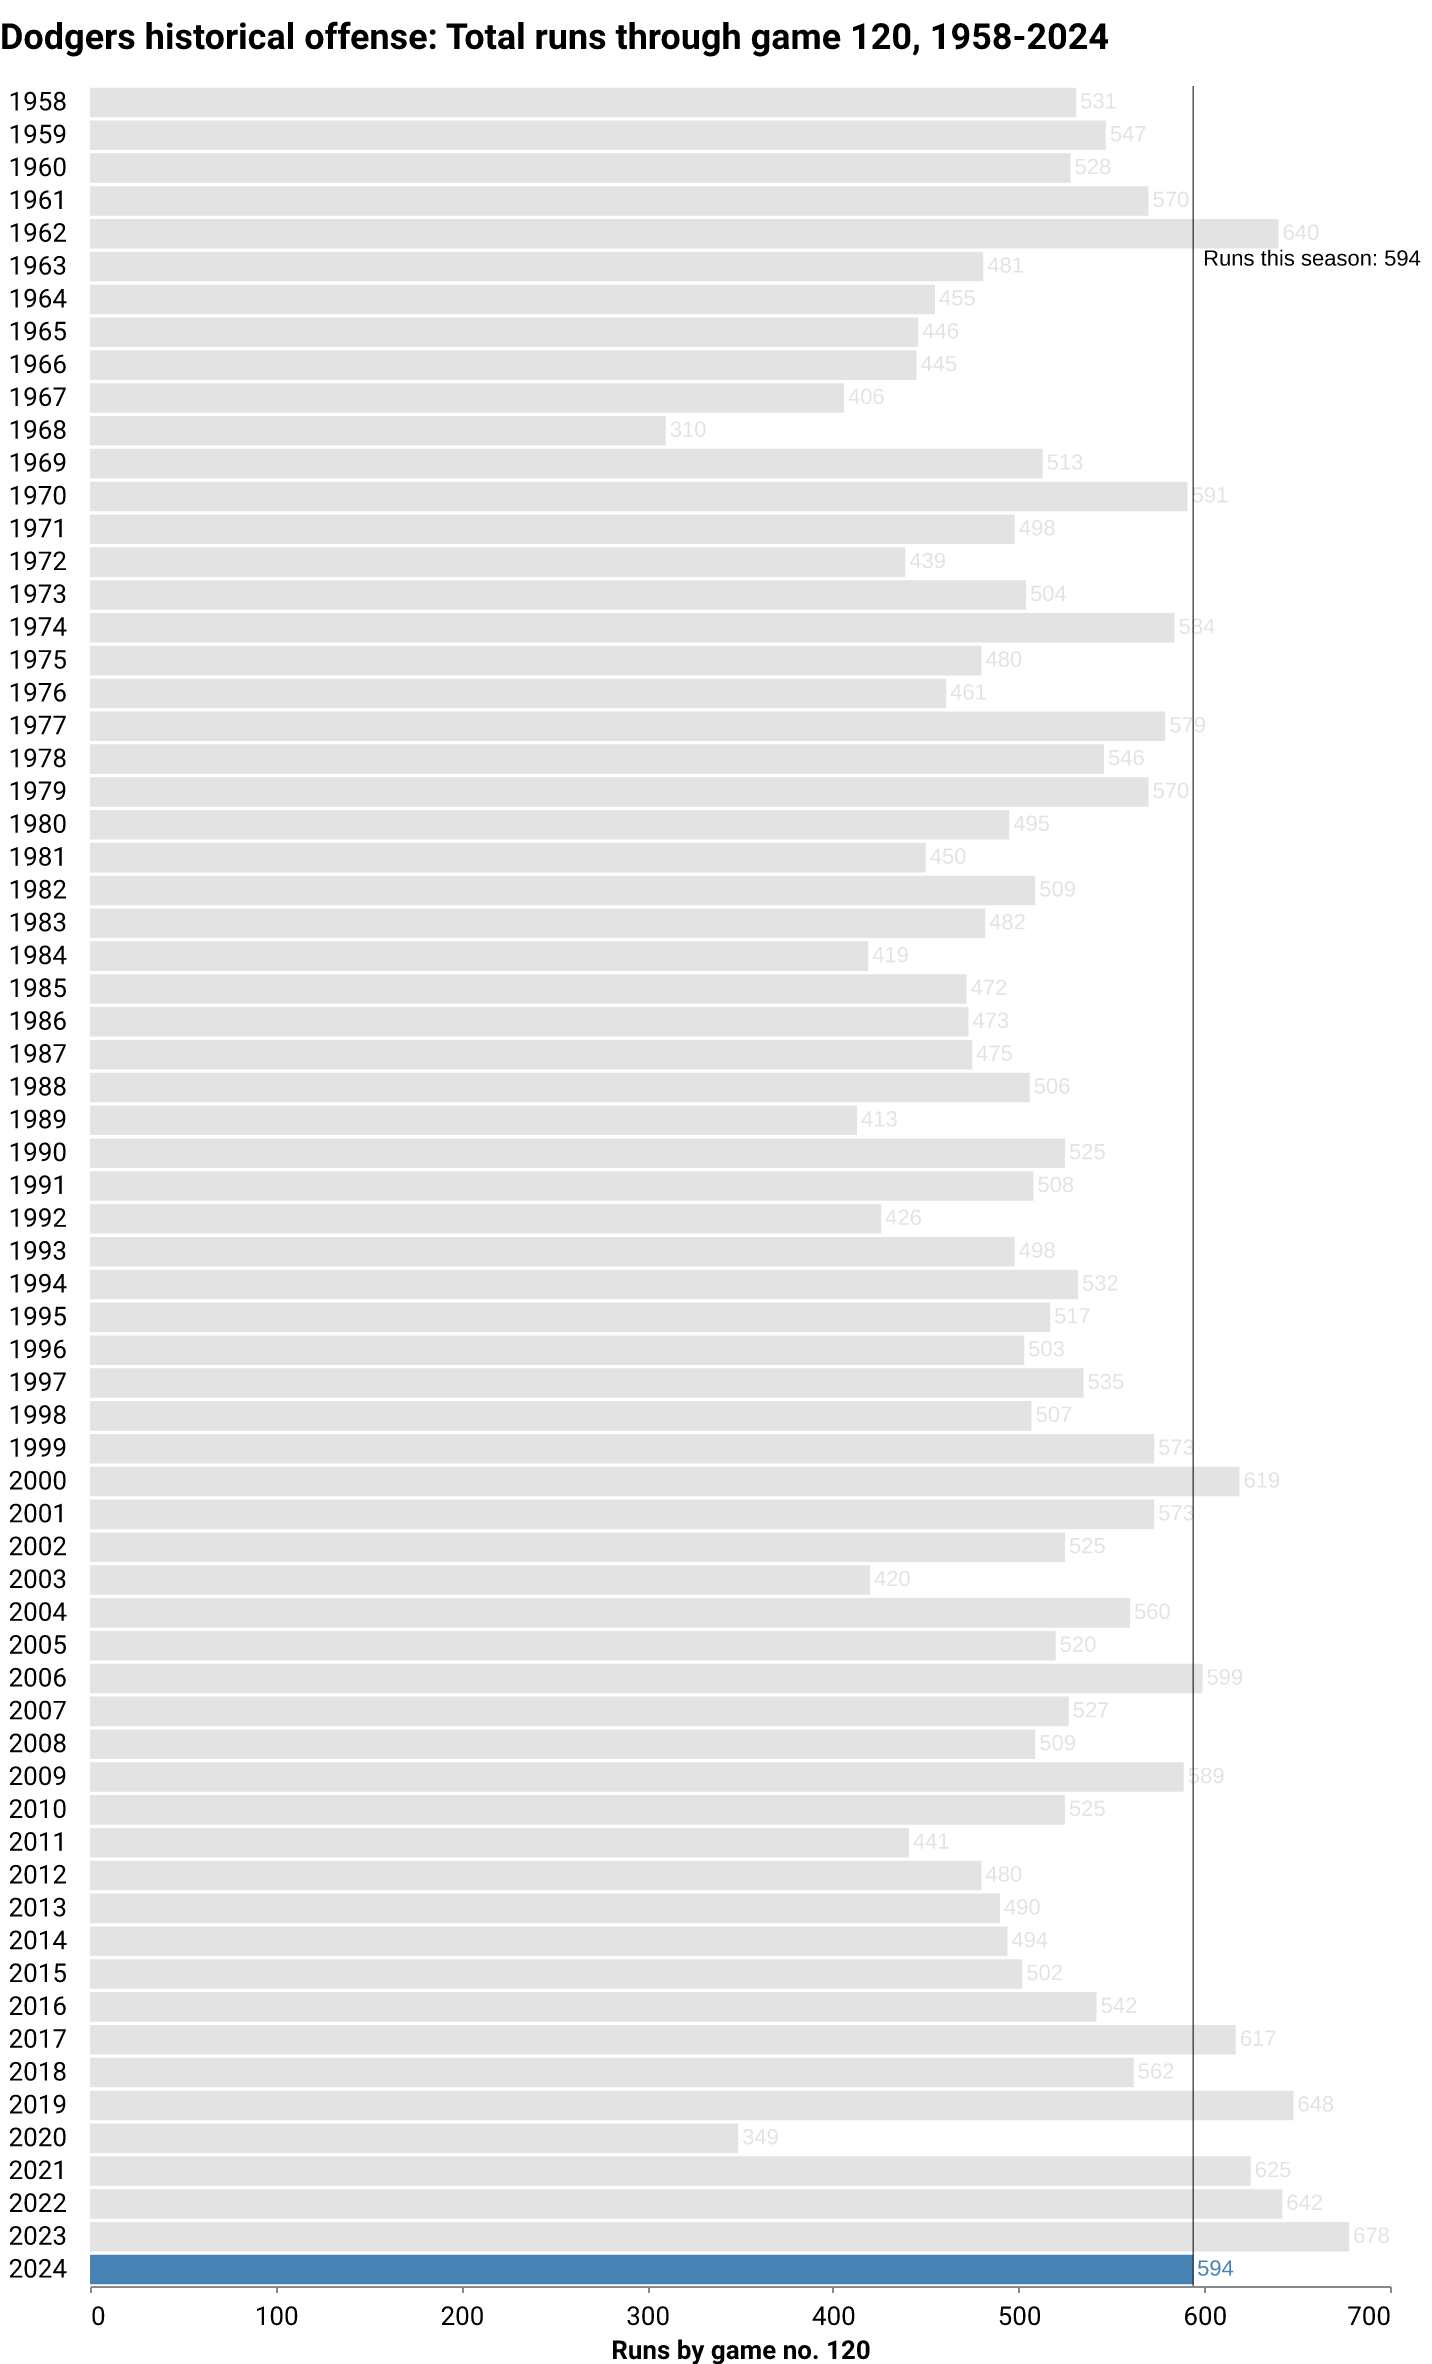
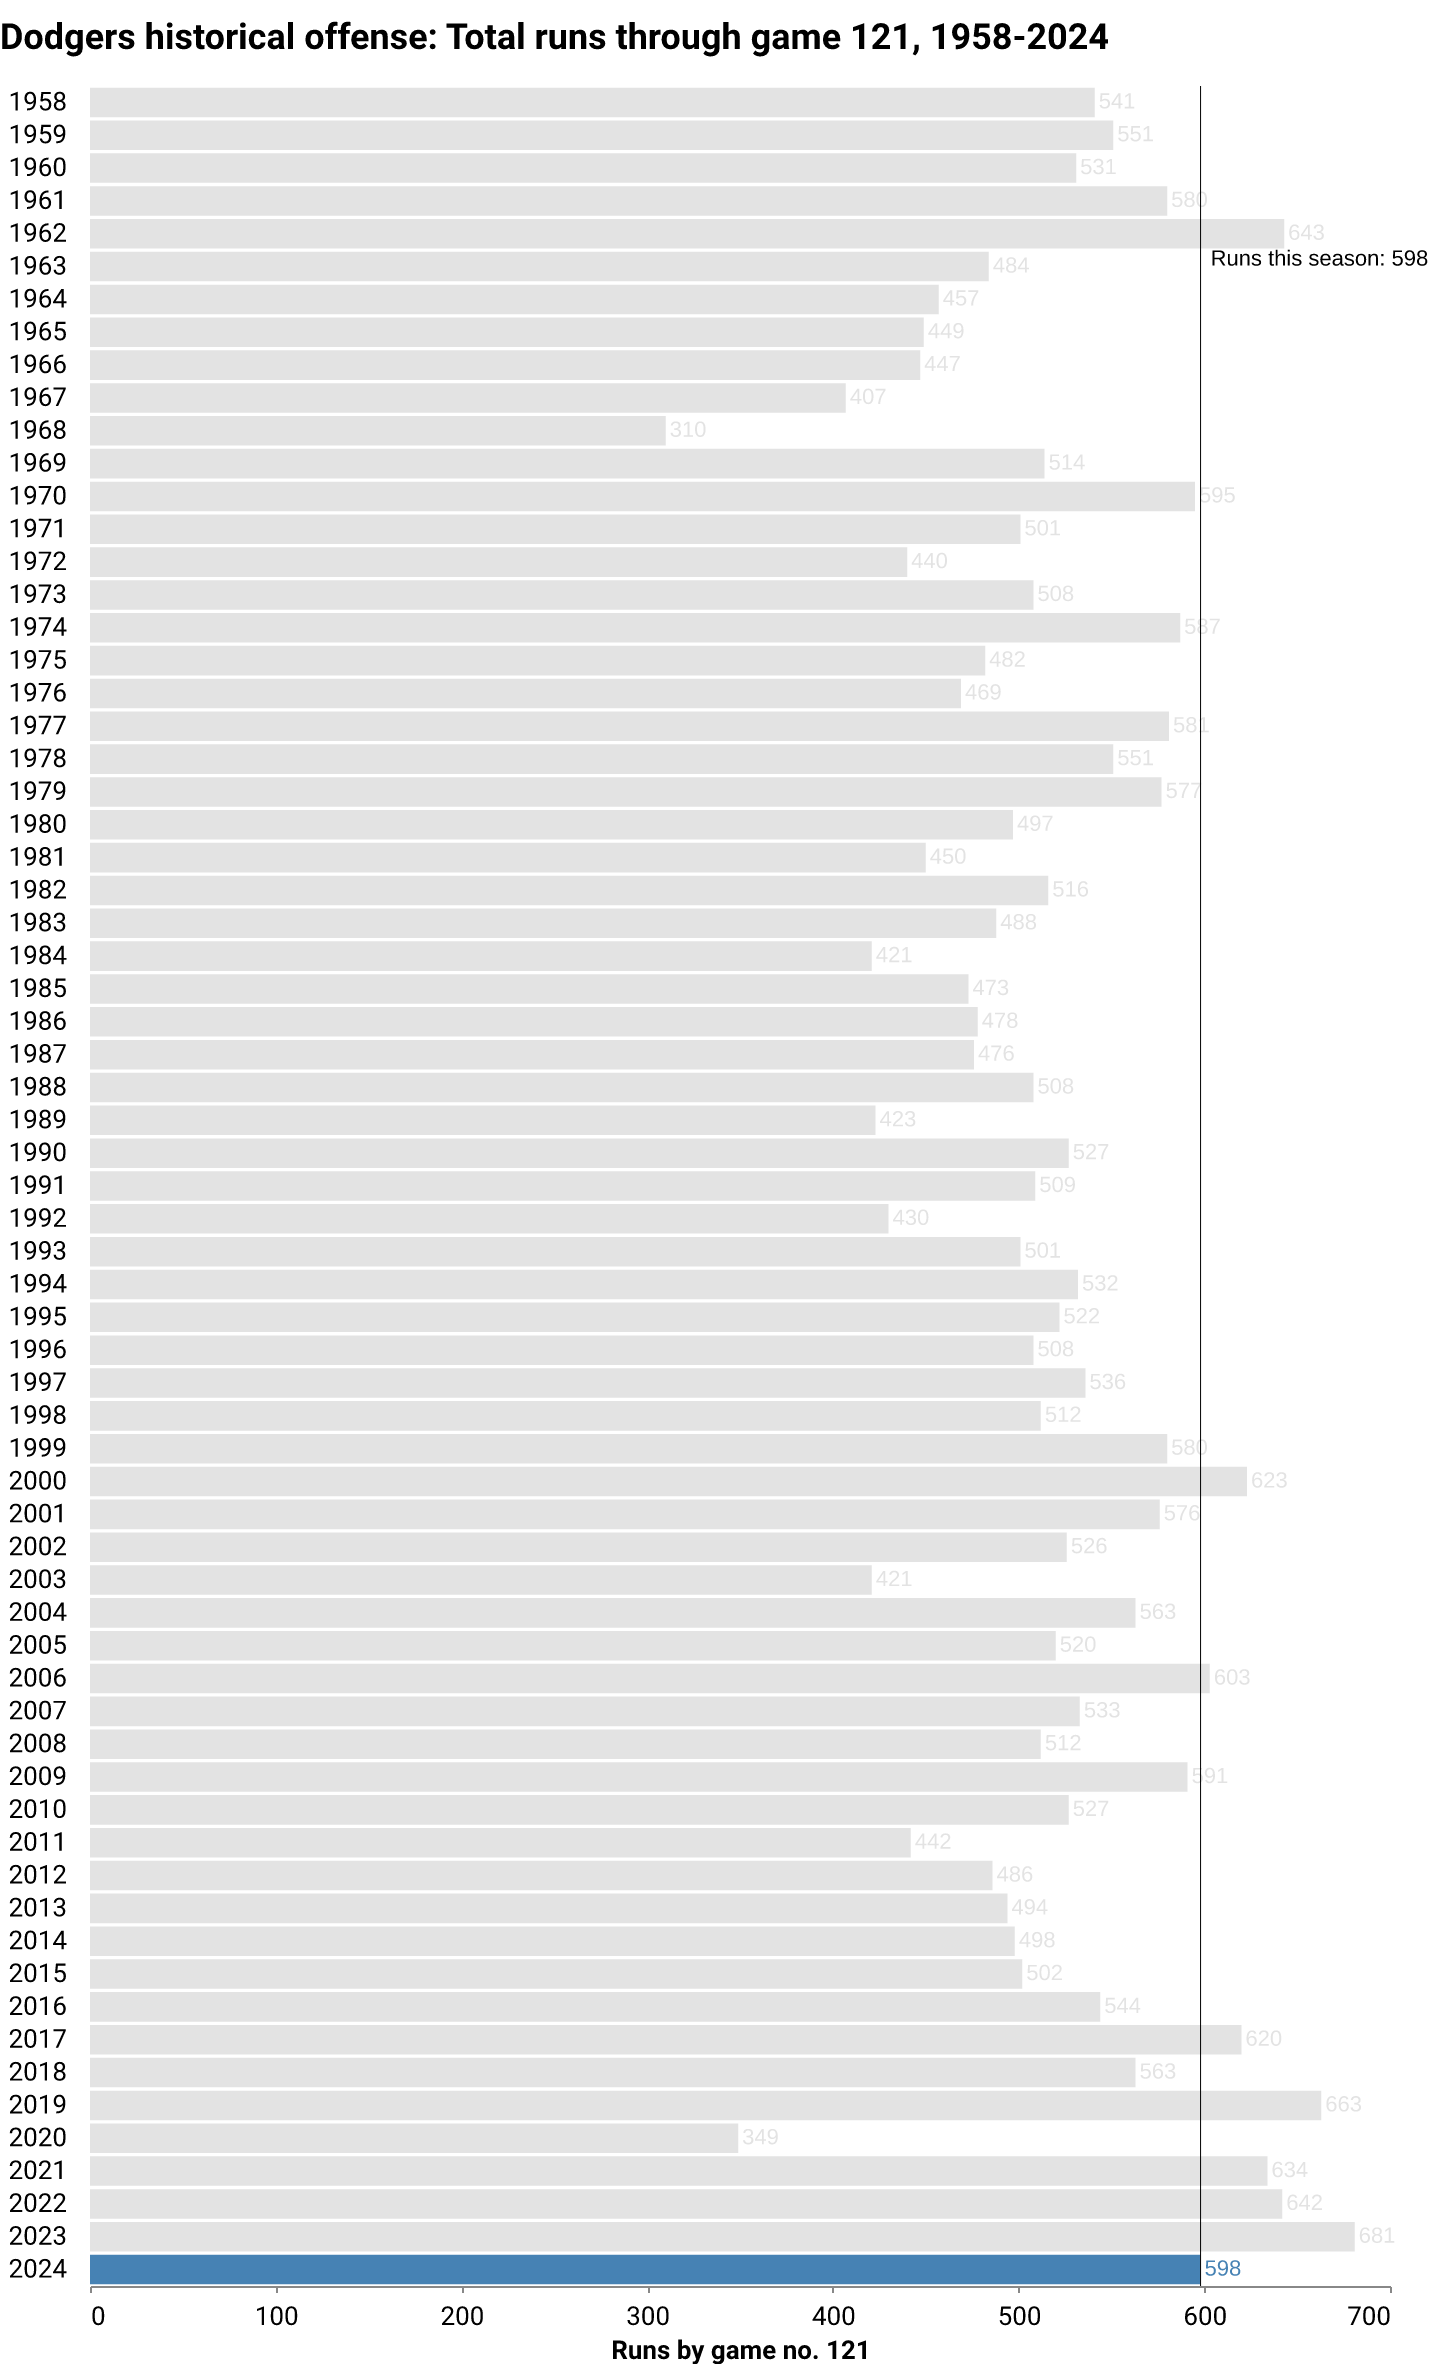
deploy: f2244b15dc1629a6667572232a5679c9d77116e2

diff --git a/index.html b/index.html
@@ -177,14 +177,14 @@
     
     
     
-        <i class="fa-solid fa-arrow-trend-up" style="color: #005a9c;"></i>
+        <i class="fa-solid fa-arrow-trend-down" style="color: #ef3e42;"></i>
     
 </div>
 <h1 class="headline">How are the Dodgers doing?</h1>
 <p class="subhead">
     
     
-    <span class="highlight">LOS ANGELES</span> <span class="updated">(August 15)</span> — After <span class="highlight">120</span> games this season, the Dodgers are in <span class="highlight">1st</span> place in the National League West division. The team has compiled a <span class="highlight">71-49</span> record, winning <span class="highlight">59%</span> of its games so far. The last game was a <span class="highlight">7-2</span> away <span class="highlight">win</span> against the Milwaukee Brewers in front of <span class="highlight">29,174</span> fans. They've won <span class="highlight">8 of the last 10</span>.
+    <span class="highlight">LOS ANGELES</span> <span class="updated">(August 15)</span> — After <span class="highlight">121</span> games this season, the Dodgers are in <span class="highlight">1st</span> place in the National League West division. The team has compiled a <span class="highlight">71-50</span> record, winning <span class="highlight">59%</span> of its games so far. The last game was a <span class="highlight">4-5</span> away <span class="highlight">loss</span> against the Milwaukee Brewers in front of <span class="highlight">31,084</span> fans. They've won <span class="highlight">7 of the last 10</span>.
 </p>
 </div>
 
@@ -222,10 +222,10 @@
             Losses
           </div>
           <div class="card-body">
-            <p class="card-text">49</p>
+            <p class="card-text">50</p>
           </div>
           <div class="card-footer text-muted">
-        This point last season: 46
+        This point last season: 47
           </div>
         </div>
       </div>
@@ -238,10 +238,10 @@
             Record
           </div>
           <div class="card-body">
-            <p class="card-text">71-49</p>
+            <p class="card-text">71-50</p>
           </div>
           <div class="card-footer text-muted">
-        This point last season: 74-46
+        This point last season: 74-47
           </div>
         </div>
       </div>
@@ -257,7 +257,7 @@
             <p class="card-text">59%</p>
           </div>
           <div class="card-footer text-muted">
-        This point last season: 62%
+        This point last season: 61%
           </div>
         </div>
       </div>
@@ -270,7 +270,7 @@
             Games up/back
           </div>
           <div class="card-body">
-            <p class="card-text">3.5</p>
+            <p class="card-text">2.5</p>
           </div>
           <div class="card-footer text-muted">
         Division rank: 1
@@ -302,7 +302,7 @@
             Runs
           </div>
           <div class="card-body">
-            <p class="card-text">594</p>
+            <p class="card-text">598</p>
           </div>
           <div class="card-footer text-muted">
         League rank: 2
@@ -318,10 +318,10 @@
             Runs against
           </div>
           <div class="card-body">
-            <p class="card-text">489</p>
+            <p class="card-text">494</p>
           </div>
           <div class="card-footer text-muted">
-        This point last season: 531
+        This point last season: 542
           </div>
         </div>
       </div>
@@ -334,10 +334,10 @@
             Run differential
           </div>
           <div class="card-body">
-            <p class="card-text">105</p>
+            <p class="card-text">104</p>
           </div>
           <div class="card-footer text-muted">
-        This point last season: 147
+        This point last season: 139
           </div>
         </div>
       </div>
@@ -440,7 +440,7 @@
             Home runs/game
           </div>
           <div class="card-body">
-            <p class="card-text">1.35</p>
+            <p class="card-text">1.34</p>
           </div>
           <div class="card-footer text-muted">
         Last decade average: 1.36
@@ -472,10 +472,10 @@
             Stolen bases
           </div>
           <div class="card-body">
-            <p class="card-text">80</p>
+            <p class="card-text">82</p>
           </div>
           <div class="card-footer text-muted">
-        League rank: 10
+        League rank: 9
           </div>
         </div>
       </div>
@@ -488,7 +488,7 @@
             Stolen bases/game
           </div>
           <div class="card-body">
-            <p class="card-text">0.67</p>
+            <p class="card-text">0.68</p>
           </div>
           <div class="card-footer text-muted">
         Rate all last season: 0.65
@@ -598,7 +598,7 @@
             Strikeouts
           </div>
           <div class="card-body">
-            <p class="card-text">1035</p>
+            <p class="card-text">1044</p>
           </div>
           <div class="card-footer text-muted">
         League rank: 6
@@ -614,7 +614,7 @@
             Walks
           </div>
           <div class="card-body">
-            <p class="card-text">362</p>
+            <p class="card-text">366</p>
           </div>
           <div class="card-footer text-muted">
         League rank: 8
@@ -630,10 +630,10 @@
             ERA
           </div>
           <div class="card-body">
-            <p class="card-text">3.75</p>
+            <p class="card-text">3.73</p>
           </div>
           <div class="card-footer text-muted">
-        League rank: 4
+        League rank: 2
           </div>
         </div>
       </div>
@@ -708,7 +708,7 @@
     </div>
 </div>
 
-  <p class="dated">Notes: Last updated August 15, 2024, 12:03 AM PT. More <a href="https://github.com/stiles/dodgers/blob/main/README.md">about the data</a>.</p>
+  <p class="dated">Notes: Last updated August 15, 2024, 4:02 AM PT. More <a href="https://github.com/stiles/dodgers/blob/main/README.md">about the data</a>.</p>
   
 </div>
 
